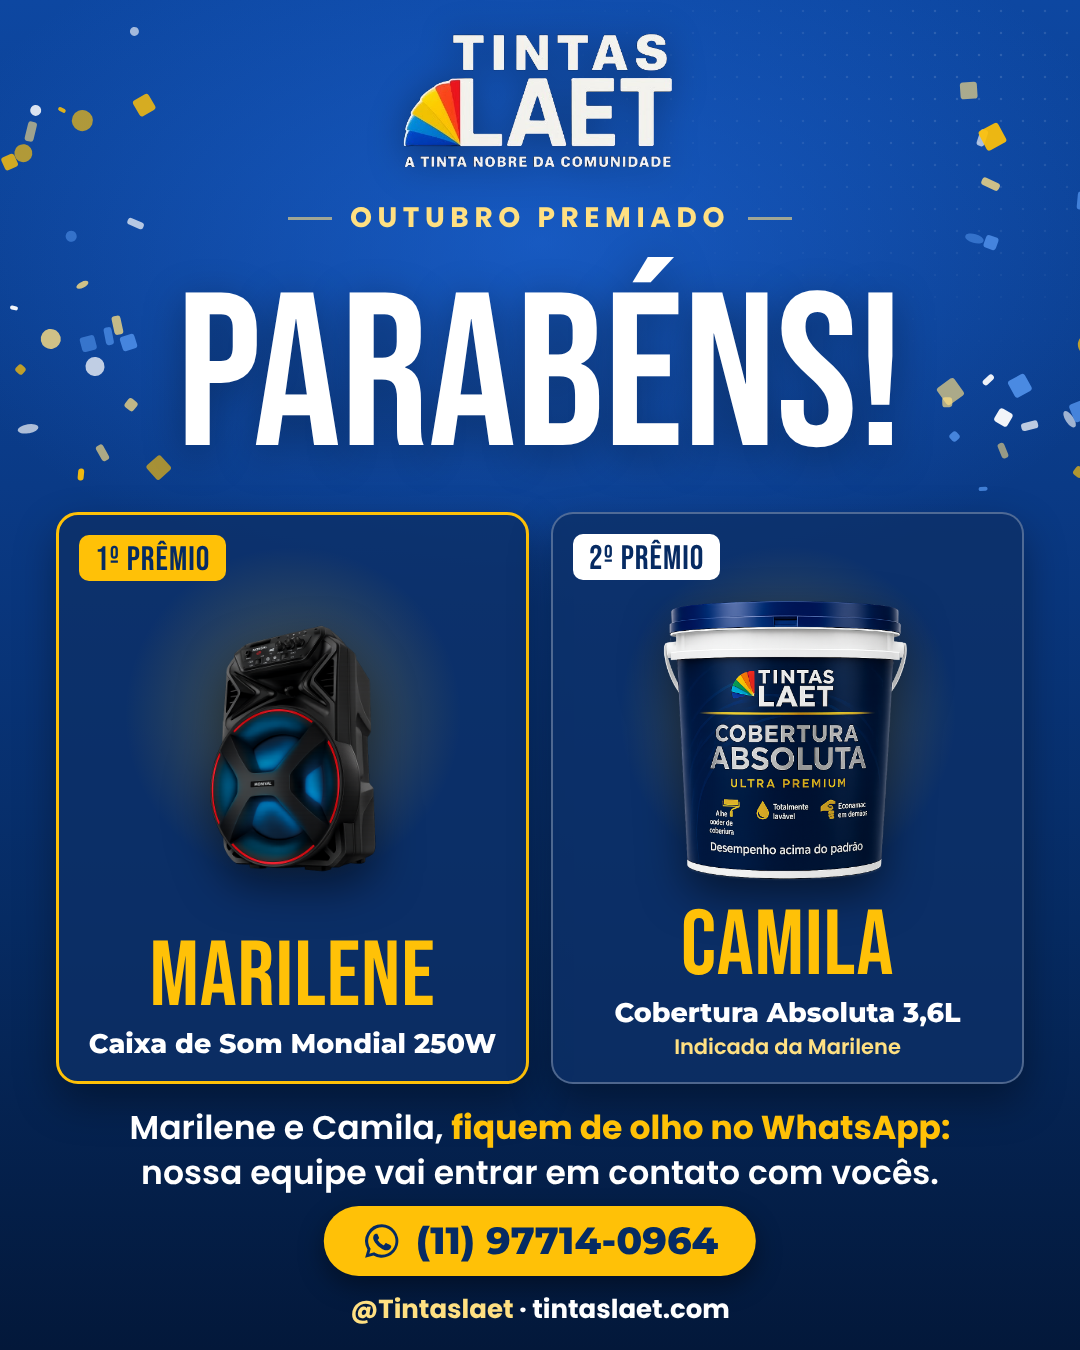
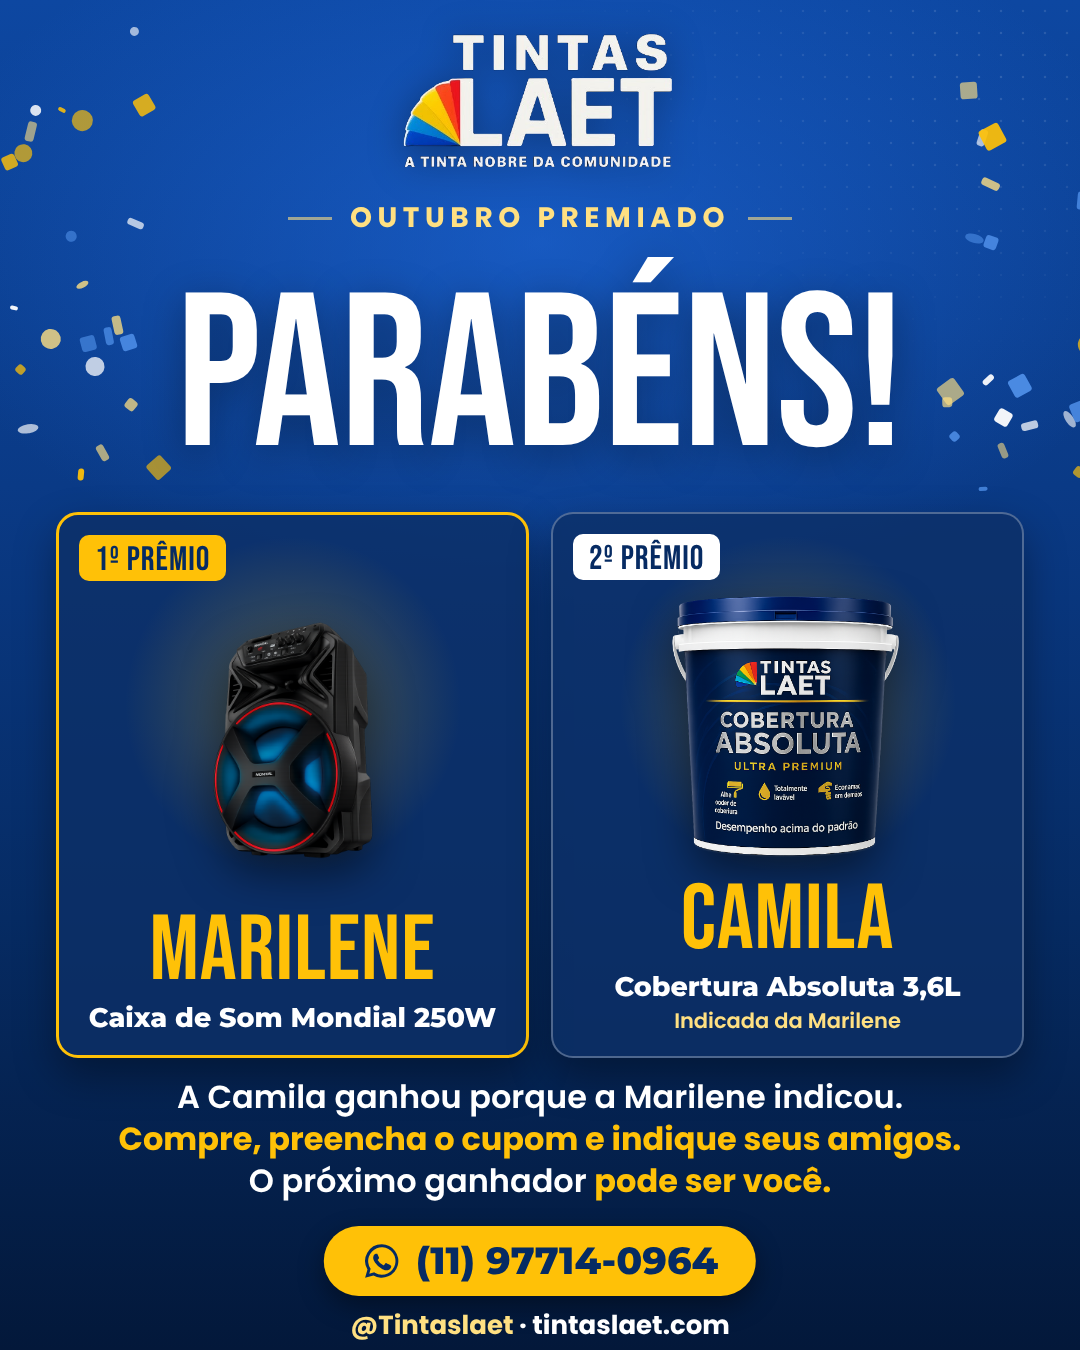
Ganhadoras do Outubro Premiado: frase final fala com os próximos participantes
Troca "fiquem de olho no WhatsApp" por um convite pro próximo sorteio usando o
caso real (a Camila ganhou porque a Marilene indicou): compre, preencha o
cupom e indique amigos. Story, feed e legenda alinhados.

Claude-Session: https://claude.ai/code/session_01SY9PCVFHwTAXLNRiFEi1A7

Changed region(s): [[0.0306, 0.4356, 0.9472, 0.9956]]

diff --git a/marketing/stories/2026-10/28-ganhadoras-outubro-premiado/story.html b/marketing/stories/2026-10/28-ganhadoras-outubro-premiado/story.html
@@ -31,26 +31,26 @@ body { background:#020A18; }
 .big { font:400 256px/.84 'Bebas Neue',sans-serif; color:#fff; margin-top:62px; text-shadow:0 10px 40px rgba(0,0,0,.35); }
 
 .cards { position:absolute; left:56px; right:56px; top:752px; z-index:8; display:grid; grid-template-columns:1fr 1fr; gap:22px; }
-.c { position:relative; height:668px; border-radius:22px; background:rgba(13,47,102,.78); border:2px solid rgba(255,255,255,.28);
+.c { position:relative; height:632px; border-radius:22px; background:rgba(13,47,102,.78); border:2px solid rgba(255,255,255,.28);
   box-shadow:0 18px 40px rgba(0,0,0,.35); overflow:hidden; }
 .c.main { border:3px solid #FFC107; }
 .c .tag { position:absolute; top:22px; left:22px; z-index:3; background:#FFC107; color:#062B63; font:400 38px/1 'Bebas Neue',sans-serif; padding:9px 18px 5px; border-radius:10px; letter-spacing:.03em; }
 .c.sec .tag { background:#fff; }
-.c .glow { position:absolute; left:50%; top:270px; width:380px; height:380px; transform:translate(-50%,-50%); border-radius:50%; background:radial-gradient(circle, rgba(255,193,7,.30) 0%, rgba(255,193,7,0) 70%); z-index:1; }
+.c .glow { position:absolute; left:50%; top:250px; width:380px; height:380px; transform:translate(-50%,-50%); border-radius:50%; background:radial-gradient(circle, rgba(255,193,7,.30) 0%, rgba(255,193,7,0) 70%); z-index:1; }
 .c img { position:absolute; left:50%; transform:translateX(-50%); z-index:2; filter:drop-shadow(0 20px 26px rgba(0,0,0,.5)); }
-.c.main img { top:118px; height:306px; }
-.c.sec img { top:88px; height:296px; }
+.c.main img { top:100px; height:296px; }
+.c.sec img { top:82px; height:282px; }
 .c .tx { position:absolute; left:14px; right:14px; bottom:30px; z-index:3; text-align:center; }
 .c .nome { font:400 108px/.9 'Bebas Neue',sans-serif; color:#FFC107; letter-spacing:.01em; }
 .c .pr { font:800 31px/1.15 'Montserrat',sans-serif; color:#fff; margin-top:10px; }
 .c .ds { font:600 24px/1.25 'Poppins',sans-serif; color:#FFE082; margin-top:8px; }
 
-.msg { position:absolute; left:70px; right:70px; top:1462px; z-index:10; text-align:center; font:600 36px/1.38 'Poppins',sans-serif; }
+.msg { position:absolute; left:50px; right:50px; top:1416px; z-index:10; text-align:center; font:600 37px/1.34 'Poppins',sans-serif; }
 .msg b { color:#FFC107; font-weight:700; }
-.btn { position:absolute; left:50%; top:1590px; transform:translateX(-50%); z-index:10; display:flex; align-items:center; gap:16px; white-space:nowrap;
+.btn { position:absolute; left:50%; top:1596px; transform:translateX(-50%); z-index:10; display:flex; align-items:center; gap:16px; white-space:nowrap;
   background:#FFC107; color:#062B63; font:800 44px/1 'Montserrat',sans-serif; padding:20px 44px; border-radius:60px; box-shadow:0 12px 30px rgba(0,0,0,.4); }
 .btn svg { width:48px; height:48px; fill:#062B63; }
-.sub { position:absolute; left:0; right:0; top:1684px; z-index:10; text-align:center; font:700 30px/1 'Poppins',sans-serif; color:#fff; }
+.sub { position:absolute; left:0; right:0; top:1690px; z-index:10; text-align:center; font:700 30px/1 'Poppins',sans-serif; color:#fff; }
 .sub b { color:#FFE082; }
 </style>
 </head>
@@ -80,7 +80,7 @@ body { background:#020A18; }
     </div>
   </div>
 
-  <div class="msg">Marilene e Camila, <b>fiquem de olho no WhatsApp:</b><br>nossa equipe vai entrar em contato com vocês.</div>
+  <div class="msg">A Camila ganhou porque a Marilene indicou.<br><b>Compre, preencha o cupom e indique seus amigos.</b><br>O próximo ganhador <b>pode ser você.</b></div>
   <div class="btn"><svg viewBox="0 0 24 24"><path d="M12 2a10 10 0 0 0-8.6 15.1L2 22l5-1.3A10 10 0 1 0 12 2zm0 18.2a8.2 8.2 0 0 1-4.2-1.2l-.3-.2-3 .8.8-2.9-.2-.3A8.2 8.2 0 1 1 12 20.2zm4.5-6.1c-.2-.1-1.5-.7-1.7-.8-.2-.1-.4-.1-.6.1l-.8 1c-.1.2-.3.2-.5.1a6.7 6.7 0 0 1-3.3-2.9c-.2-.4.2-.4.7-1.3.1-.2 0-.3 0-.4l-.8-1.8c-.2-.5-.4-.4-.6-.4h-.5a1 1 0 0 0-.7.3 3 3 0 0 0-.9 2.2 5.1 5.1 0 0 0 1.1 2.7 11.7 11.7 0 0 0 4.5 4c1.7.7 2.3.8 3.2.6a2.7 2.7 0 0 0 1.8-1.3 2.2 2.2 0 0 0 .2-1.3c-.1-.1-.3-.2-.5-.3z"/></svg>(11) 97714-0964</div>
   <div class="sub"><b>@Tintaslaet</b> · tintaslaet.com</div>
 </div>

diff --git a/marketing/conteudo/post-ganhadoras-outubro-premiado-2026-10-28/post.html b/marketing/conteudo/post-ganhadoras-outubro-premiado-2026-10-28/post.html
@@ -30,26 +30,26 @@ body { background:#020A18; }
 .big { font:400 218px/.84 'Bebas Neue',sans-serif; color:#fff; margin-top:56px; text-shadow:0 10px 40px rgba(0,0,0,.35); }
 
 .cards { position:absolute; left:56px; right:56px; top:512px; z-index:8; display:grid; grid-template-columns:1fr 1fr; gap:22px; }
-.c { position:relative; height:572px; border-radius:22px; background:rgba(13,47,102,.78); border:2px solid rgba(255,255,255,.28);
+.c { position:relative; height:546px; border-radius:22px; background:rgba(13,47,102,.78); border:2px solid rgba(255,255,255,.28);
   box-shadow:0 18px 40px rgba(0,0,0,.35); overflow:hidden; }
 .c.main { border:3px solid #FFC107; }
 .c .tag { position:absolute; top:20px; left:20px; z-index:3; background:#FFC107; color:#062B63; font:400 34px/1 'Bebas Neue',sans-serif; padding:8px 16px 4px; border-radius:10px; letter-spacing:.03em; }
 .c.sec .tag { background:#fff; }
-.c .glow { position:absolute; left:50%; top:200px; width:340px; height:340px; transform:translate(-50%,-50%); border-radius:50%; background:radial-gradient(circle, rgba(255,193,7,.30) 0%, rgba(255,193,7,0) 70%); z-index:1; }
+.c .glow { position:absolute; left:50%; top:190px; width:340px; height:340px; transform:translate(-50%,-50%); border-radius:50%; background:radial-gradient(circle, rgba(255,193,7,.30) 0%, rgba(255,193,7,0) 70%); z-index:1; }
 .c img { position:absolute; left:50%; transform:translateX(-50%); z-index:2; filter:drop-shadow(0 18px 22px rgba(0,0,0,.5)); }
-.c.main img { top:76px; height:300px; }
-.c.sec img { top:78px; height:296px; }
+.c.main img { top:74px; height:288px; }
+.c.sec img { top:74px; height:276px; }
 .c .tx { position:absolute; left:16px; right:16px; bottom:22px; z-index:3; text-align:center; }
 .c .nome { font:400 92px/.9 'Bebas Neue',sans-serif; color:#FFC107; letter-spacing:.01em; }
 .c .pr { font:800 27px/1.15 'Montserrat',sans-serif; color:#fff; margin-top:8px; }
 .c .ds { font:600 21px/1.25 'Poppins',sans-serif; color:#FFE082; margin-top:6px; }
 
-.msg { position:absolute; left:70px; right:70px; top:1106px; z-index:10; text-align:center; font:600 33px/1.35 'Poppins',sans-serif; }
+.msg { position:absolute; left:50px; right:50px; top:1076px; z-index:10; text-align:center; font:600 32px/1.32 'Poppins',sans-serif; }
 .msg b { color:#FFC107; font-weight:700; }
-.btn { position:absolute; left:50%; top:1206px; transform:translateX(-50%); z-index:10; display:flex; align-items:center; gap:14px; white-space:nowrap;
+.btn { position:absolute; left:50%; top:1226px; transform:translateX(-50%); z-index:10; display:flex; align-items:center; gap:14px; white-space:nowrap;
   background:#FFC107; color:#062B63; font:800 38px/1 'Montserrat',sans-serif; padding:15px 38px; border-radius:60px; box-shadow:0 10px 26px rgba(0,0,0,.4); }
 .btn svg { width:40px; height:40px; fill:#062B63; }
-.sub { position:absolute; left:0; right:0; top:1296px; z-index:10; text-align:center; font:700 26px/1 'Poppins',sans-serif; color:#fff; }
+.sub { position:absolute; left:0; right:0; top:1312px; z-index:10; text-align:center; font:700 26px/1 'Poppins',sans-serif; color:#fff; }
 .sub b { color:#FFE082; }
 </style>
 </head>
@@ -79,7 +79,7 @@ body { background:#020A18; }
     </div>
   </div>
 
-  <div class="msg">Marilene e Camila, <b>fiquem de olho no WhatsApp:</b><br>nossa equipe vai entrar em contato com vocês.</div>
+  <div class="msg">A Camila ganhou porque a Marilene indicou.<br><b>Compre, preencha o cupom e indique seus amigos.</b><br>O próximo ganhador <b>pode ser você.</b></div>
   <div class="btn"><svg viewBox="0 0 24 24"><path d="M12 2a10 10 0 0 0-8.6 15.1L2 22l5-1.3A10 10 0 1 0 12 2zm0 18.2a8.2 8.2 0 0 1-4.2-1.2l-.3-.2-3 .8.8-2.9-.2-.3A8.2 8.2 0 1 1 12 20.2zm4.5-6.1c-.2-.1-1.5-.7-1.7-.8-.2-.1-.4-.1-.6.1l-.8 1c-.1.2-.3.2-.5.1a6.7 6.7 0 0 1-3.3-2.9c-.2-.4.2-.4.7-1.3.1-.2 0-.3 0-.4l-.8-1.8c-.2-.5-.4-.4-.6-.4h-.5a1 1 0 0 0-.7.3 3 3 0 0 0-.9 2.2 5.1 5.1 0 0 0 1.1 2.7 11.7 11.7 0 0 0 4.5 4c1.7.7 2.3.8 3.2.6a2.7 2.7 0 0 0 1.8-1.3 2.2 2.2 0 0 0 .2-1.3c-.1-.1-.3-.2-.5-.3z"/></svg>(11) 97714-0964</div>
   <div class="sub"><b>@Tintaslaet</b> · tintaslaet.com</div>
 </div>

diff --git a/marketing/conteudo/post-ganhadoras-outubro-premiado-2026-10-28/legenda.md b/marketing/conteudo/post-ganhadoras-outubro-premiado-2026-10-28/legenda.md
@@ -2,14 +2,16 @@
 
 **Parabéns, Marilene e Camila! 🎉**
 
-O sorteio do Outubro Premiado já tem dono:
+O Outubro Premiado já tem dono:
 
 🔊 **Marilene** levou a Caixa de Som Mondial 250W.
-🎨 **Camila**, indicada da Marilene, levou a tinta Cobertura Absoluta 3,6L.
+🎨 **Camila** levou a tinta Cobertura Absoluta 3,6L. Ela ganhou porque a Marilene indicou.
 
-Marilene e Camila, fiquem de olho no WhatsApp: nossa equipe vai entrar em contato com vocês pra combinar a entrega do prêmio.
+Aqui na Laet quem indica também concorre. Na próxima, o ganhador pode ser você ou alguém que você gosta.
 
-Quer ser o próximo? É só comprar em qualquer uma das nossas 6 lojas, preencher seu cupom na loja e indicar seus amigos. Quem você indica também concorre!
+É simples: compre em uma das nossas 6 lojas, preencha o cupom e indique seus amigos.
+
+Marilene e Camila, nossa equipe vai chamar vocês no WhatsApp pra combinar a entrega.
 
 📲 WhatsApp (11) 97714-0964
 🌐 tintaslaet.com
